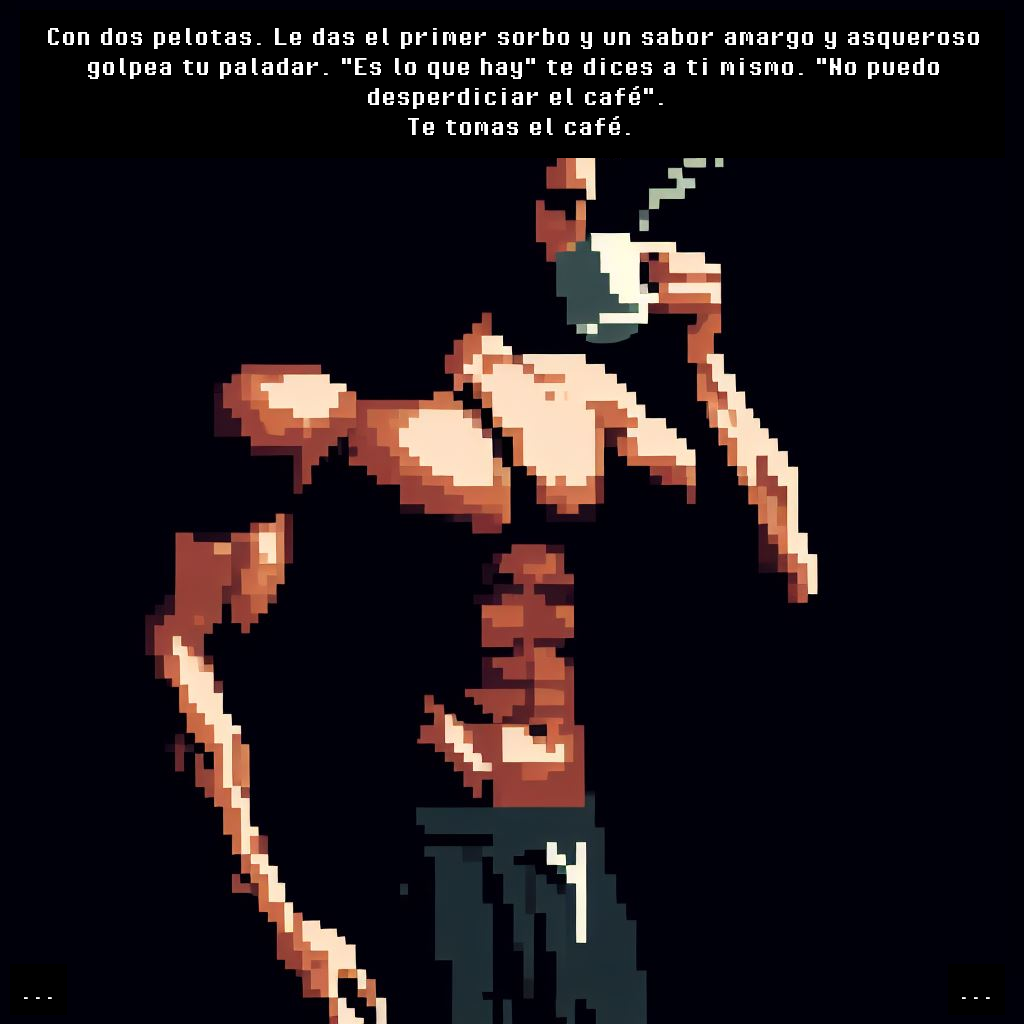
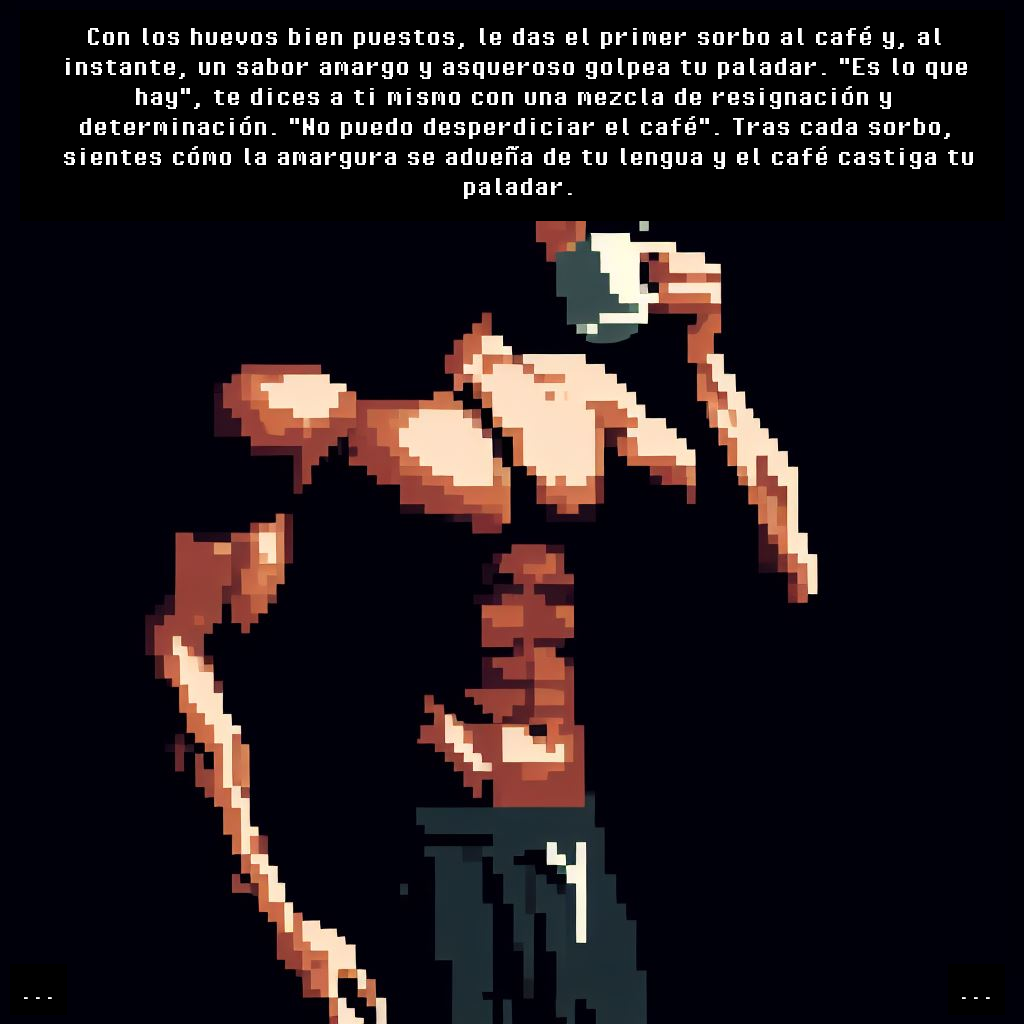
Cambios en las descripciones

Changed region(s): [[0.0625, 0.0312, 0.9688, 0.2188]]

diff --git a/python-gen-images/narrativa.py b/python-gen-images/narrativa.py
@@ -12,14 +12,13 @@ lista = [
     ['¿Solo una respuesta correcta de siete? Me daría vergüenza… Claramente, tus conocimientos están lejos de ser sólidos. Esta es una llamada de atención para que te tomes en serio tu formación y te comprometas a mejorar. ¡Ponte a estudiar, maldita sea!\nDecides ir a buscar algo para tomar.', 'Café', 'Mate', 'fin_cuestionario.jfif'],
     ['Felicidades. Tienes más cultura que un recién nacido, pero no mucha más. Podría haber acertado más preguntas eligiendo al azar. En fin, no puedo decir que estoy decepcionado, ya que no esperaba nada de ti.\nDecides ir a buscar algo para tomar.', 'Café', 'Mate', 'fin_cuestionario.jfif'],
     ['¿No pudiste responder siete preguntas correctamente? Y eso que eran sencillas... No está tan mal, pero no es motivo de celebración. Ni muy listo, ni muy tonto.\nDecides ir a buscar algo para tomar.', 'Café', 'Mate', 'fin_cuestionario.jfif'],
-    ['Parece que tuviste suerte esta vez, pero no te confíes. La suerte no golpea dos veces a la misma puerta.\nDecides ir a buscar algo para tomar.',
-        'Café', 'Mate', 'fin_cuestionario.jfif'],
-    ['Café, la bebida de los dioses. O eso dicen... Lo cierto es que no te gusta el café. Por lo menos no la porquería de café instantáneo que compraste. Pero no te queda otra opción.\nEl café se disuelve en el agua caliente, liberando un aroma a café quemado que llena la cocina.', 'Tomar el café solo', 'Agregarle leche', 'cafe.jfif'],
-    ['La decisión correcta. Pones a calentar agua en la pava para el mate. Pero ¿a qué temperatura?', '348K', 'Hervir el agua', 'mate.jfif'],
-    ['Con dos pelotas. Le das el primer sorbo y un sabor amargo y asqueroso golpea tu paladar. "Es lo que hay" te dices a ti mismo. "No puedo desperdiciar el café".\nTe tomas el café.', '...', '...', 'chad-cafe-solo.jfif'],
-    ['Si, un poco de leche podría ayudar a suavizarlo. Abres la heladera y agarras el sachet de leche. Te sorprende su peso. Lo viertes sobre la taza de café. Una mísera gota de leche cae sobre este. "¿Cómo puede ser?" te preguntas. "¿Quién se tomó toda la leche?"\nPero esta es tu casa y no hay nadie más que tú. ¿Por qué guardaste el sachet vacío en la heladera?', 'Andá a saber...', '¡Yo no fuí!', 'heladera.jfif'],
-    ['Hechas sobre la yerba un chorrito de agua tibia para humedecerla. Luego, con la bombilla, haces un hueco en la parte húmeda. Finalmente, hechas el agua en su temperatura perfecta. Cuando le das la primera cebada, sientes un sabor amargo y reconfortante.', '...', '...', 'mate-bueno.jfif'],
-    ['El agua hierve y la pava comienza a silbar. Es hora de preparar el mate. Mientras vuelcas el agua en su punto de ebullición normal sobre el mate, puedes escuchar como parte de esta se evapora al entrar en contacto con la yerba. ¡Felicidades, quemaste el mate!', '...', '...', 'mate-quemao.jfif'],
-    ['Ese café no se puede tomar. Tienes que hacer algo.\nDecides añadir edulcorante. Al sostener la botella, se te eriza la piel y sientes un escalofrío recorriendo tu espalda. Un nudo en la garganta te hace sentir como si hubieras sido víctima de una broma cruel del destino. "Esto no puede estar pasando" piensas. Pero la realidad golpea con fuerza. La botella de edulcorante también está vacía.', '...', '...', 'edulcorante.jfif'],
-    ['Okay Sherlock. Alguien entró en tu casa, se tomó tu leche y guardó el sachet vacío en la heladera. ¿Qué vas a hacer al respecto?', 'Investigar si te robaron algo', '...', 'sherlock.jfif']
+    ['Parece que tuviste suerte esta vez, pero no te confíes. La suerte no golpea dos veces a la misma puerta.\nDecides ir a buscar algo para tomar.', 'Café', 'Mate', 'fin_cuestionario.jfif'],
+    ['Café, la bebida de los dioses. O eso dicen... Lo cierto es que no te gusta el café. Por lo menos no la porquería de café instantáneo que compraste. Pero no te queda otra opción, así que preparas una taza.\nEl café se disuelve en el agua caliente, liberando un aroma a café quemado que llena la cocina. El olor, aunque familiar, no logra disipar tu desconfianza en la mezcla.', 'Tomar el café solo', 'Agregarle leche', 'cafe.jfif'],
+    ['Tomar mate, la elección acertada. Comienzas a calentar agua en la pava. Pero aquí viene la pregunta crucial: ¿a qué temperatura?', '348 Kelvin', 'Hervir el agua', 'mate.jfif'],
+    ['Con los huevos bien puestos, le das el primer sorbo al café y, al instante, un sabor amargo y asqueroso golpea tu paladar. "Es lo que hay", te dices a ti mismo con una mezcla de resignación y determinación. "No puedo desperdiciar el café". Tras cada sorbo, sientes cómo la amargura se adueña de tu lengua y el café castiga tu paladar.', '...', '...', 'chad-cafe-solo.jfif'],
+    ['Decides que un poco de leche podría suavizar este café tan desagradable. Abres la heladera y agarras el sachet de leche. Te sorprende su peso, "no más de 11 gramos", estimas. Lo viertes sobre la taza de café y una única, mísera gota de leche cae sobre este. "¿Cómo puede ser?" te preguntas. "¿Quién se tomó toda la leche?"\nPero esta es tu casa y no hay nadie más que tú. ¿Por qué guardaste el sachet vacío en la heladera?', 'Andá a saber...', '¡Yo no fuí!', 'heladera.jfif'],
+    ['Hechas sobre la yerba un chorrito de agua tibia para humedecerla. Luego, con la bombilla, haces un hueco en la parte húmeda. Finalmente, hechas el agua en su temperatura perfecta. Cuando le das la primera cebada, sientes un sabor amargo y reconfortante. Con el mate como compañero, te dispones a hacer alguna de tus tareas pendientes.', 'Estudiar para el examen', 'Trabajar en tu proyecto', 'mate-bueno.jfif'],
+    ['El agua hierve y la pava comienza a silbar en un alarde de energía térmica. Es hora de preparar el mate. Mientras vuelcas el agua en su punto de ebullición normal sobre el mate, puedes escuchar como parte de esta se evapora al entrar en contacto con la yerba. ¡Felicidades, quemaste el mate!', '...', '...', 'mate-quemao.jfif'],
+    ['Ese café no se puede tomar. Tienes que hacer algo.\nDecides añadir edulcorante. Al sostener la botella, se te eriza la piel y sientes un escalofrío recorriendo tu espalda. "No supera los 30 gramos", estimas. Un nudo en la garganta te hace sentir como si hubieras sido víctima de una broma cruel del destino. "Esto no puede estar pasando" piensas. Pero la realidad golpea con fuerza. La botella de edulcorante también está vacía.', '...', '...', 'edulcorante.jfif'],
+    ['Okay Sherlock. Alguien entró en tu casa, se tomó tu leche y guardó el sachet vacío en la heladera. ¿Qué vas a hacer al respecto?', 'Investigar si te robaron algo', 'Buscar *señales*', 'sherlock.jfif']
 ]
